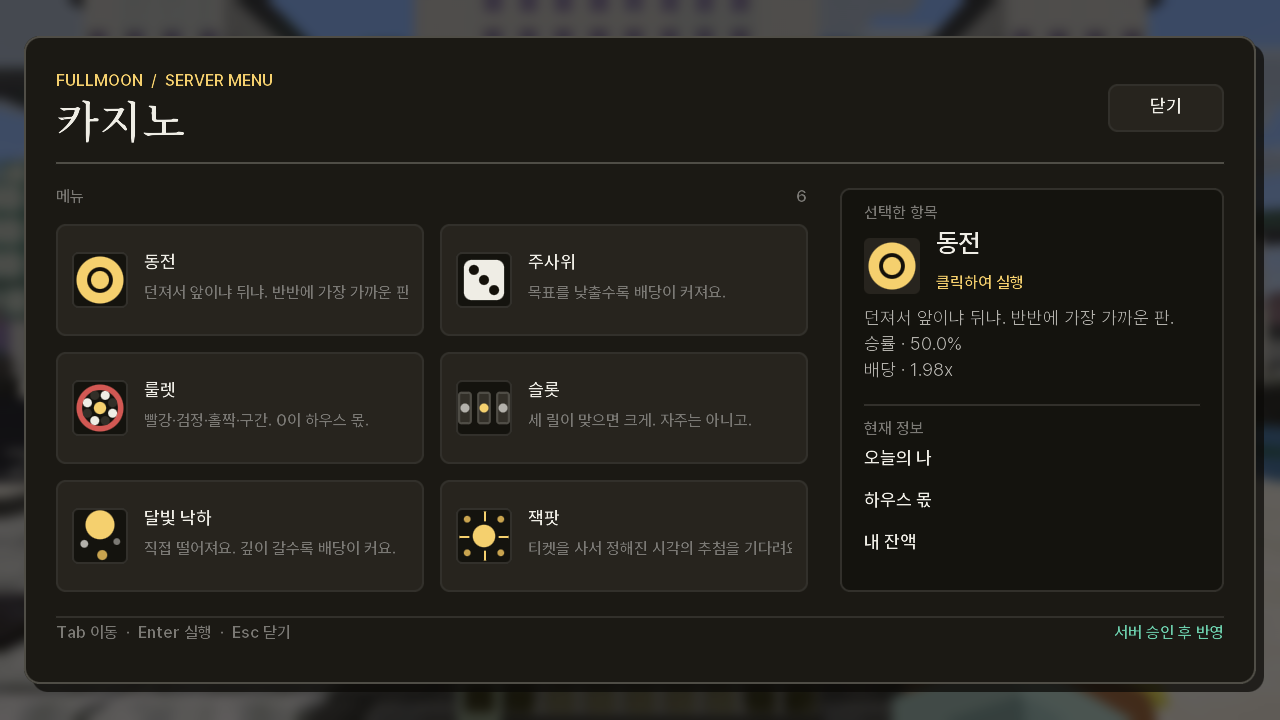
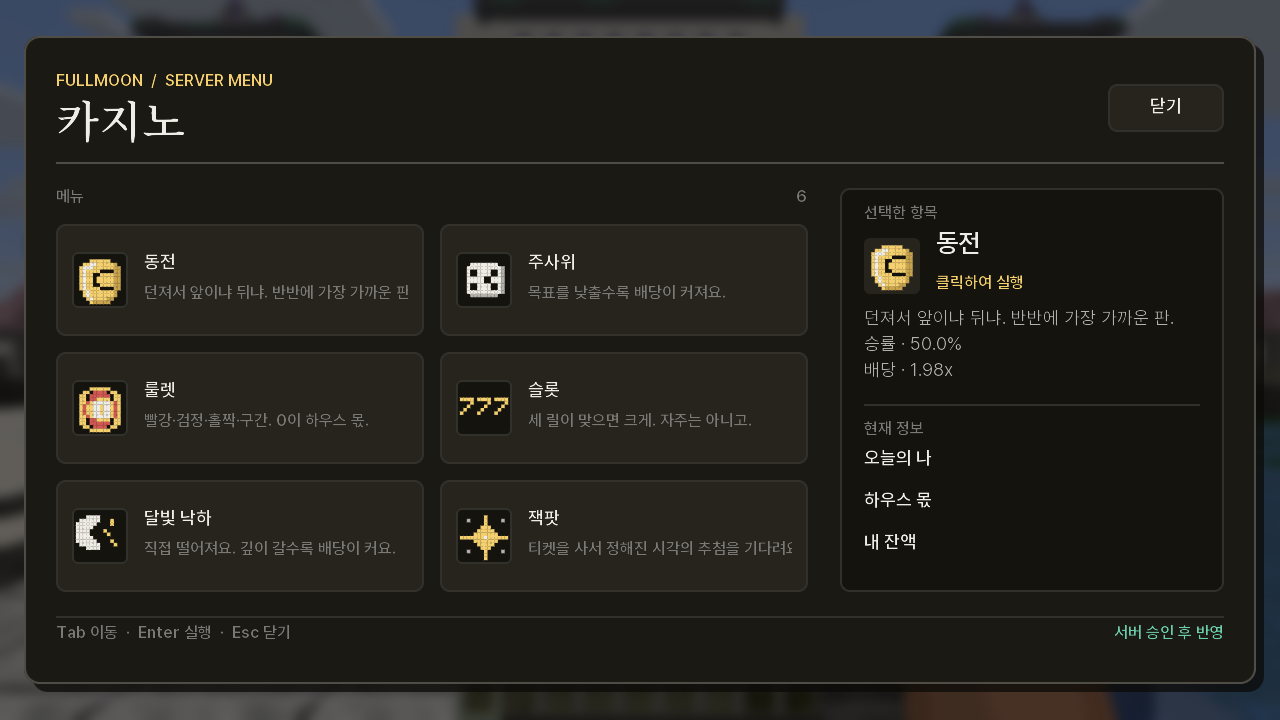
feat(i3): redraw the casino marks as hand-drawn pixel sprites
The first pass composed the six marks from SDF primitives and the frames
judged them filler — shapes arranged near a label are not icons. The marks
are now hand-drawn 14x14 pixel maps in the vanilla HUD's own idiom: a coin
stamped with a crescent, a die showing five, a pocketed wheel, triple
seven, the moon with light streaking past it, a four-point sparkle with a
lit core. Captured three times over two refinement rounds before settling;
evidence, audit and DEVLOG updated to the pixel idiom.

diff --git a/i3/mod/src/main/java/dev/fullmoon/client/menu/MenuIcons.java b/i3/mod/src/main/java/dev/fullmoon/client/menu/MenuIcons.java
@@ -4,104 +4,163 @@ import dev.fullmoon.client.design.Tokens;
 import dev.fullmoon.client.render.Painter;
 
 /**
- * Bespoke vector marks for the casino's six games, drawn from the same SDF
- * primitives as the rest of the chrome. A raw item sprite says "block", not
- * "game"; a coin, a die and a wheel say what the tile plays. The server names
- * the mark through the menu item's icon id — anything it does not name falls
- * back to the item render in {@link ServerMenuEntry}.
+ * Hand-drawn 14×14 pixel marks for the casino's six games — the same idiom as
+ * the vanilla HUD's own sprites, so they read as the game's craft rather than
+ * chrome drawn on top of it. A raw item sprite says "block", not "game". The
+ * server names the mark through the menu item's icon id; anything it does not
+ * name falls back to the item render in {@link ServerMenuEntry}.
  */
 final class MenuIcons {
+    private static final float CELL_INSET = 0.86f;
+
+    /** A gold coin with a milled rim and a crescent stamped in the middle. */
+    private static final String[] COIN = {
+        "..............",
+        "....GGGGGG....",
+        "..GGWWGGGGGg..",
+        ".GWWWGGGGGGgg.",
+        ".GWGGGGddddgg.",
+        ".GWGGddGGGGgg.",
+        ".GWGGdGGGGGgg.",
+        ".GWGGdGGGGGgg.",
+        ".GWGGddGGGGgg.",
+        ".GWGGGGddddgg.",
+        "..GWGGGGGGGg..",
+        "..GWGGGGGGGg..",
+        "...GWGGGGgg...",
+        "....Gggggg....",
+    };
+
+    /** An ivory die showing five, shaded at its lower right. */
+    private static final String[] DICE = {
+        "..............",
+        "..............",
+        "...WWWWWWWW...",
+        "..WWWWWWWWWWw.",
+        "..WddWWWWddWw.",
+        "..WddWWWWddWw.",
+        "..WWWWWddWWWw.",
+        "..WWWWWddWWWw.",
+        "..WddWWWWddWw.",
+        "..WddWWWWddWw.",
+        "..WWWWWWWWWWw.",
+        "...wwwwwwww...",
+        "..............",
+        "..............",
+    };
+
+    /** A roulette wheel: gold rim, red cardinal and dark diagonal pockets, ivory hub. */
+    private static final String[] ROULETTE = {
+        "..............",
+        "....GGGGGG....",
+        "..GGdRRRRdGG..",
+        ".GGdRRRRRRdGG.",
+        ".GGdRRGGGGdGG.",
+        ".GGRGWWWWWGRG.",
+        ".GRGGWWGWWGRG.",
+        ".GRGGWWGWWGRG.",
+        ".GRGGWWGWWGRG.",
+        ".GGRGWWWWWGRG.",
+        ".GGdRRGGGGdGG.",
+        ".GGdRRRRRRdGG.",
+        "..GGdRRRRdGG..",
+        "....GGGGGG....",
+    };
+
+    /** Triple seven across the payline. */
+    private static final String[] SLOTS = {
+        "..............",
+        "..............",
+        "..............",
+        "..............",
+        "GGGG.GGGG.GGGG",
+        "...G....G....G",
+        "..G....G....G.",
+        ".G....G....G..",
+        "G....G....G...",
+        "..............",
+        "..............",
+        "..............",
+        "..............",
+        "..............",
+    };
+
+    /** The ivory moon with gold light streaking down past it. */
+    private static final String[] MOONFALL = {
+        "..............",
+        "...WWWW.......",
+        ".WWWWWW...G...",
+        "WWWWWW....G...",
+        "WWWWW.........",
+        "WWWW....G.....",
+        "WWWW.....G....",
+        "WWWWW.........",
+        "WWWWWW....G...",
+        ".WWWWWW....G..",
+        "...WWWW.......",
+        "..............",
+        "..............",
+        "..............",
+    };
+
+    /** A four-point jackpot sparkle with a lit core and four sparks. */
+    private static final String[] JACKPOT = {
+        "..............",
+        ".......G......",
+        "..w....G....w.",
+        ".......G......",
+        "......GGG.....",
+        ".....GGGGG....",
+        "....GGGGGGG...",
+        "GGGGGGGWGGGGGG",
+        "....GGGGGGG...",
+        ".....GGGGG....",
+        "......GGG.....",
+        "..w....G....w.",
+        ".......G......",
+        ".......G......",
+    };
+
     private MenuIcons() {}
 
     /** Draws the mark centred on {@code cx},{@code cy} in a {@code size} box; false if unknown. */
     static boolean draw(Painter painter, String icon, float cx, float cy, float size) {
-        switch (icon) {
-            case "fullmoon.casino.coinflip" -> coin(painter, cx, cy, size);
-            case "fullmoon.casino.dice" -> die(painter, cx, cy, size);
-            case "fullmoon.casino.roulette" -> wheel(painter, cx, cy, size);
-            case "fullmoon.casino.slots" -> reels(painter, cx, cy, size);
-            case "fullmoon.casino.moonfall" -> moonfall(painter, cx, cy, size);
-            case "fullmoon.casino.jackpot" -> burst(painter, cx, cy, size);
-            default -> {
-                return false;
+        String[] art = switch (icon) {
+            case "fullmoon.casino.coinflip" -> COIN;
+            case "fullmoon.casino.dice" -> DICE;
+            case "fullmoon.casino.roulette" -> ROULETTE;
+            case "fullmoon.casino.slots" -> SLOTS;
+            case "fullmoon.casino.moonfall" -> MOONFALL;
+            case "fullmoon.casino.jackpot" -> JACKPOT;
+            default -> null;
+        };
+        if (art == null) {
+            return false;
+        }
+        float cell = size * CELL_INSET / art.length;
+        float left = cx - art.length * cell / 2;
+        float top = cy - art[0].length() * cell / 2;
+        float pad = cell + Math.max(0.02f, cell * 0.02f);
+        for (int row = 0; row < art.length; row++) {
+            for (int col = 0; col < art[row].length(); col++) {
+                int color = color(art[row].charAt(col));
+                if (color != 0) {
+                    painter.fill(left + col * cell, top + row * cell, pad, pad, color);
+                }
             }
         }
         return true;
     }
 
-    /** A gold coin: the disc and its milled edge ring. */
-    private static void coin(Painter painter, float cx, float cy, float size) {
-        float r = size * 0.42f;
-        painter.dot(cx, cy, r, Tokens.Color.ACCENT);
-        painter.ring(cx, cy, r * 0.55f, Math.max(1f, size * 0.07f), Tokens.Color.INK_ON_ACCENT);
-    }
-
-    /** An ivory die showing three. */
-    private static void die(Painter painter, float cx, float cy, float size) {
-        float half = size * 0.36f;
-        float pip = Math.max(1f, size * 0.09f);
-        painter.fill(cx - half, cy - half, half * 2, half * 2, size * 0.14f,
-            Tokens.Color.INK_PRIMARY);
-        painter.dot(cx - half * 0.5f, cy - half * 0.5f, pip, Tokens.Color.INK_ON_ACCENT);
-        painter.dot(cx, cy, pip, Tokens.Color.INK_ON_ACCENT);
-        painter.dot(cx + half * 0.5f, cy + half * 0.5f, pip, Tokens.Color.INK_ON_ACCENT);
-    }
-
-    /** A roulette wheel: red rim, eight alternating pockets, gold spindle. */
-    private static void wheel(Painter painter, float cx, float cy, float size) {
-        float r = size * 0.42f;
-        painter.ring(cx, cy, r, Math.max(1f, size * 0.1f), Tokens.Color.STATUS_DANGER);
-        float pocket = Math.max(1f, size * 0.08f);
-        for (int k = 0; k < 8; k++) {
-            double angle = Math.PI / 4 * k + Math.PI / 8;
-            float px = cx + (float) Math.cos(angle) * r * 0.58f;
-            float py = cy + (float) Math.sin(angle) * r * 0.58f;
-            painter.dot(px, py, pocket, k % 2 == 0
-                ? Tokens.Color.INK_PRIMARY : Tokens.Color.SURFACE_OVERLAY);
-        }
-        painter.dot(cx, cy, Math.max(1f, size * 0.11f), Tokens.Color.ACCENT);
-    }
-
-    /** Three reel windows on a payline; the middle one lands gold. */
-    private static void reels(Painter painter, float cx, float cy, float size) {
-        float w = size * 0.24f;
-        float h = size * 0.58f;
-        float step = size * 0.34f;
-        for (int off = -1; off <= 1; off++) {
-            float x = cx + off * step - w / 2;
-            painter.fill(x, cy - h / 2, w, h, Math.max(1f, size * 0.06f),
-                Tokens.Color.SURFACE_OVERLAY);
-            painter.border(x, cy - h / 2, w, h, Math.max(1f, size * 0.06f),
-                Tokens.Stroke.HAIR, Tokens.Color.LINE_STRONG);
-            painter.dot(x + w / 2, cy, Math.max(1f, size * 0.08f),
-                off == 0 ? Tokens.Color.ACCENT : Tokens.Color.INK_SECONDARY);
-        }
-    }
-
-    /** The moon up top and three shards of light falling past it. */
-    private static void moonfall(Painter painter, float cx, float cy, float size) {
-        painter.dot(cx, cy - size * 0.2f, size * 0.26f, Tokens.Color.ACCENT);
-        painter.dot(cx - size * 0.28f, cy + size * 0.14f, Math.max(1f, size * 0.07f),
-            Tokens.Color.INK_SECONDARY);
-        painter.dot(cx + size * 0.04f, cy + size * 0.34f, Math.max(1f, size * 0.09f),
-            Tokens.Color.ACCENT_PRESSED);
-        painter.dot(cx + size * 0.3f, cy + size * 0.1f, Math.max(1f, size * 0.06f),
-            Tokens.Color.INK_TERTIARY);
-    }
-
-    /** A jackpot burst: gold core, four rays, four sparks. */
-    private static void burst(Painter painter, float cx, float cy, float size) {
-        float ray = size * 0.18f;
-        painter.dot(cx, cy, size * 0.2f, Tokens.Color.ACCENT);
-        painter.vRule(cx, cy - size * 0.44f, ray, Tokens.Color.ACCENT);
-        painter.vRule(cx, cy + size * 0.44f - ray, ray, Tokens.Color.ACCENT);
-        painter.hRule(cx - size * 0.44f, cy, ray, Tokens.Color.ACCENT);
-        painter.hRule(cx + size * 0.44f - ray, cy, ray, Tokens.Color.ACCENT);
-        float d = size * 0.3f;
-        float spark = Math.max(1f, size * 0.06f);
-        painter.dot(cx - d, cy - d, spark, Tokens.Color.ACCENT_PRESSED);
-        painter.dot(cx + d, cy - d, spark, Tokens.Color.ACCENT_PRESSED);
-        painter.dot(cx - d, cy + d, spark, Tokens.Color.ACCENT_PRESSED);
-        painter.dot(cx + d, cy + d, spark, Tokens.Color.ACCENT_PRESSED);
+    private static int color(char pixel) {
+        return switch (pixel) {
+            case 'G' -> Tokens.Color.ACCENT;
+            case 'g' -> Tokens.Color.ACCENT_PRESSED;
+            case 'W' -> Tokens.Color.INK_PRIMARY;
+            case 'w' -> Tokens.Color.INK_SECONDARY;
+            case 'd' -> Tokens.Color.INK_ON_ACCENT;
+            case 'R' -> Tokens.Color.STATUS_DANGER;
+            default -> 0;
+        };
     }
 }

diff --git a/i3/docs/evidence/README.md b/i3/docs/evidence/README.md
@@ -351,7 +351,7 @@ Three defects were found by driving and looking at the launcher rather than by c
 
 | file | what it settles |
 | --- | --- |
-| `p11-menu-open-960x540.png` | A live coin-bridge session opened the casino menu over `fullmoon:v1`: brand eyebrow above the serif title, a two-column action deck where each game wears its own bespoke mark — coin, die, wheel, reels, falling moon, jackpot burst — the context rail naming the first actionable item, and the keyboard footer. No ChestGUI and no raw block sprite anywhere in the frame. |
+| `p11-menu-open-960x540.png` | A live coin-bridge session opened the casino menu over `fullmoon:v1`: brand eyebrow above the serif title, a two-column action deck where each game wears its own hand-drawn pixel mark — stamped coin, five-pip die, pocketed wheel, triple seven, the moon with falling light, a four-point sparkle — the context rail naming the first actionable item, and the keyboard footer. No ChestGUI and no raw block sprite anywhere in the frame. |
 | `p11-menu-hover-960x540.png` | The pointer on `동전`: accent border and wash on the tile, and the context rail follows the hover — reading, not choosing. |
 | `p11-menu-refreshed-960x540.png` | One click later the client's `menu_action` slot 19 met the server's revision 1 snapshot: `동전` now chosen, `승률 · 50.0%` and `배당 · 1.98x` in the rail. The refresh is the server's answer, not a client prediction. |
 | `p11-menu-closed-960x540.png` | `menu_close` returns the player to the live world; the surface leaves nothing on screen. |
@@ -369,9 +369,9 @@ after the captures; nothing was installed on the production Oracle host.
 The marks are not the server's block sprites. A raw item render says "block", not "game", so the
 snapshot carries an optional `icon` id — the casino lobby names
 `fullmoon.casino.{coinflip,dice,roulette,slots,moonfall,jackpot}` — and the client draws each as
-a bespoke vector mark off the same SDF primitives as the rest of the chrome, falling back to the
-item render for any id it does not know. The field is presentation only; the protocol rules in
-`docs/BRIDGE.md` say so.
+a hand-drawn 14×14 pixel mark in the vanilla HUD's own idiom, falling back to the item render for
+any id it does not know. The field is presentation only; the protocol rules in `docs/BRIDGE.md`
+say so.
 
 Two defects were found only in the rendered frames of the first redesign session and corrected
 before these frames were taken: the display title overprinted the brand eyebrow (the P0 class of

diff --git a/i3/docs/evidence/p11-hallmark-audit.md b/i3/docs/evidence/p11-hallmark-audit.md
@@ -8,9 +8,9 @@ only what the server's `menu_open` snapshot carries — items, actions, facts an
 answers every click by asking the server again; hierarchy is 5 because header, action deck,
 context rail and footer read as four distinct planes at a glance; execution is 5 because the
 committed frames come from one live Paper session over the real `fullmoon:v1` channel at two
-GUI resolutions; specificity is 5 because each casino game wears a bespoke vector mark named by
-the server's icon id — a coin, a die, a wheel — and the copy is the server's menu text with only
-its ChestGUI decoration stripped;
+GUI resolutions; specificity is 5 because each casino game wears a hand-drawn pixel mark named by
+the server's icon id — a stamped coin, a die, a wheel — and the copy is the server's menu text
+with only its ChestGUI decoration stripped;
 restraint is 5 because the surface adds no animation, gradient, toast or optimistic copy — the
 footer says `서버 승인 후 반영` and means it; variety is 4 because it deliberately reuses the
 established `SurfaceScreen` chrome and token set rather than inventing a second design language.
@@ -51,7 +51,7 @@ page-structure gate is N/A. Every applicable answer is **No**.
 | 27 | N/A | The surface has no motion to reduce. |
 | 28 | N/A | There is no video. |
 | 29 | N/A | The blurred stratum is Minecraft's own background blur over the live world; no aurora or mesh gradient. |
-| 30 | No | The six casino games draw as bespoke vector marks — coin, die, wheel, reels, falling moon, burst — named by the server's optional icon id; unknown ids fall back to real item renders. No emoji. |
+| 30 | No | The six casino games draw as hand-drawn 14×14 pixel marks — a stamped coin, a five-pip die, a pocketed wheel, triple seven, the moon with falling light, a four-point sparkle — named by the server's optional icon id; unknown ids fall back to real item renders. No emoji. |
 | 31 | N/A | No generated illustration or Lottie asset. |
 | 32 | No | An immutable, revision-stamped server snapshot rendered as a native screen is specific to this product's bridge contract. |
 | 33 | N/A | No decorative SVG figure. |

diff --git a/i3/docs/DEVLOG.md b/i3/docs/DEVLOG.md
@@ -1135,9 +1135,11 @@ installed on the production Oracle host.
 The first frames carried the server's block sprites as icons, and a gold cube does not say
 "coinflip" any more than a red cube says "roulette" — the native surface existed to read like the
 games it plays, so the snapshot now carries an optional `icon` id and the client draws each casino
-game as a bespoke vector mark off the same SDF primitives as the rest of the chrome: a milled
-coin, a die showing three, a pocketed wheel, three reels on a payline, the moon with light
-falling past it, a jackpot burst. Unknown ids and icon-less items keep the item render, and the
+game as a hand-drawn 14×14 pixel mark in the vanilla HUD's own idiom: a coin stamped with a
+crescent, a die showing five, a pocketed wheel, triple seven, the moon with light streaking past
+it, a four-point sparkle. The first draft drew the six as SDF compositions and the frames judged
+them filler — shapes arranged near a label are not icons — so the marks were redone as sprites and
+captured twice more before settling. Unknown ids and icon-less items keep the item render, and the
 field is declared presentation-only in `docs/BRIDGE.md`. The same review that caught the two
 render defects above also probed the layout arithmetic past the captured sizes: the icon well now
 scales with its card, and a capped frame shrinks the deck gap instead of collapsing cards to
